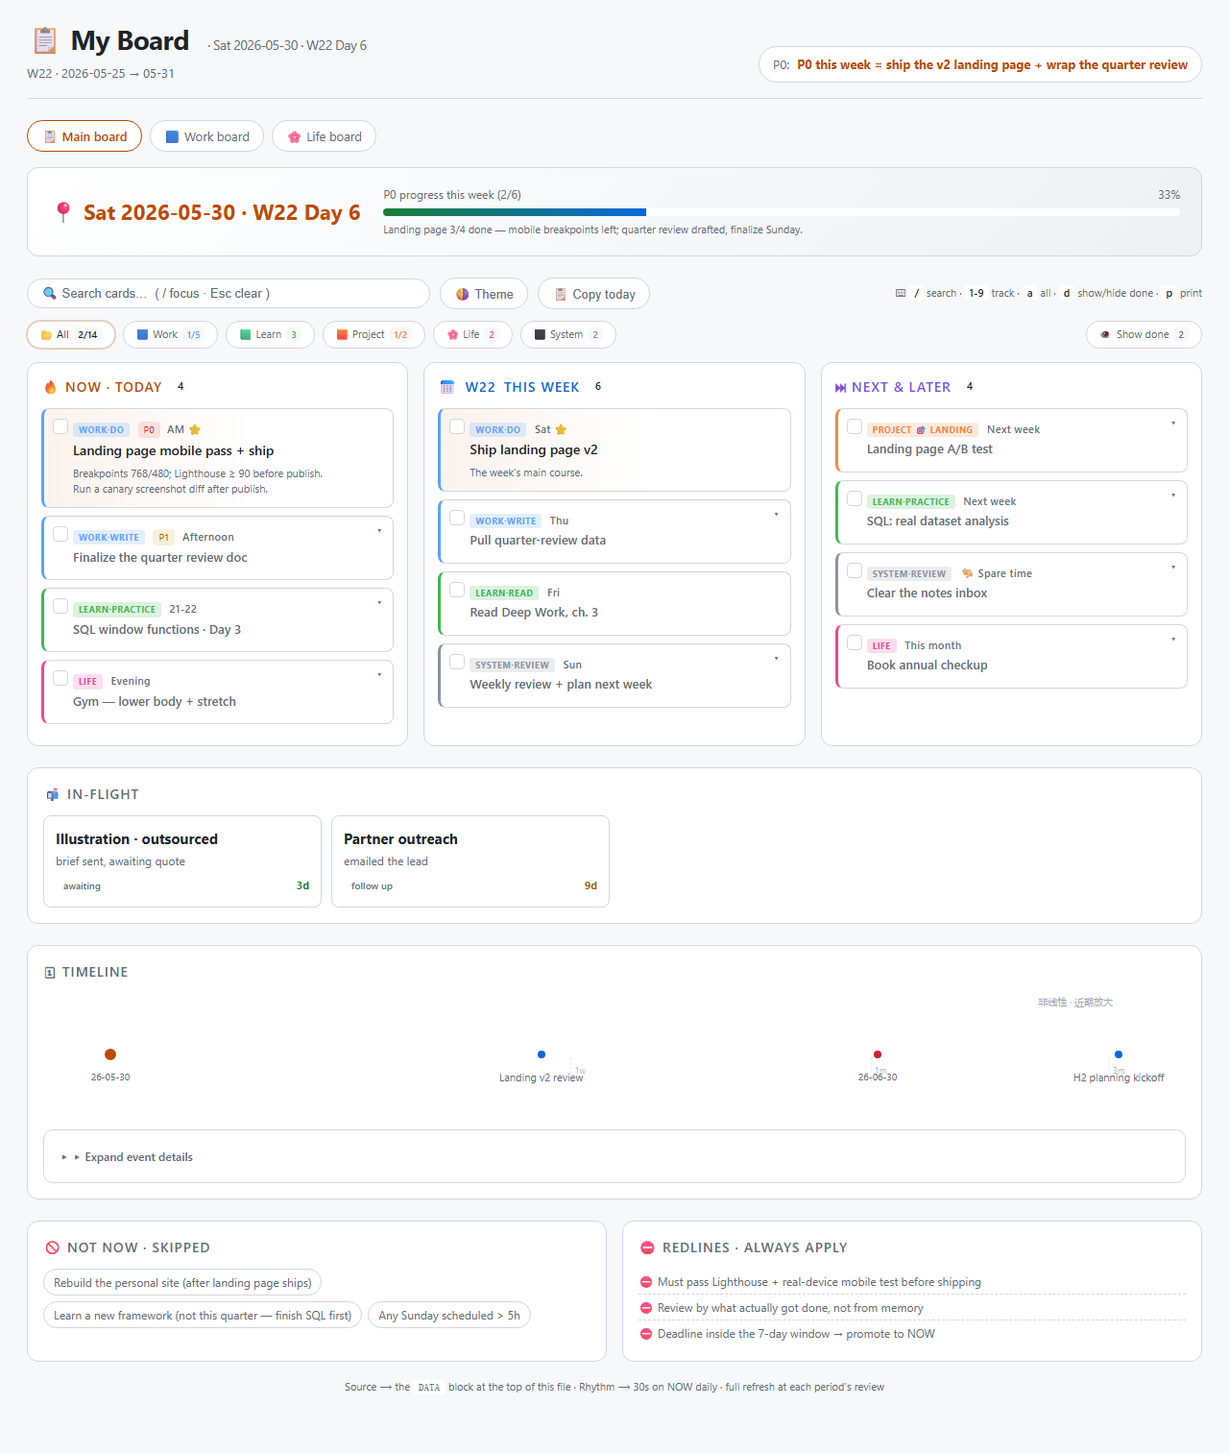
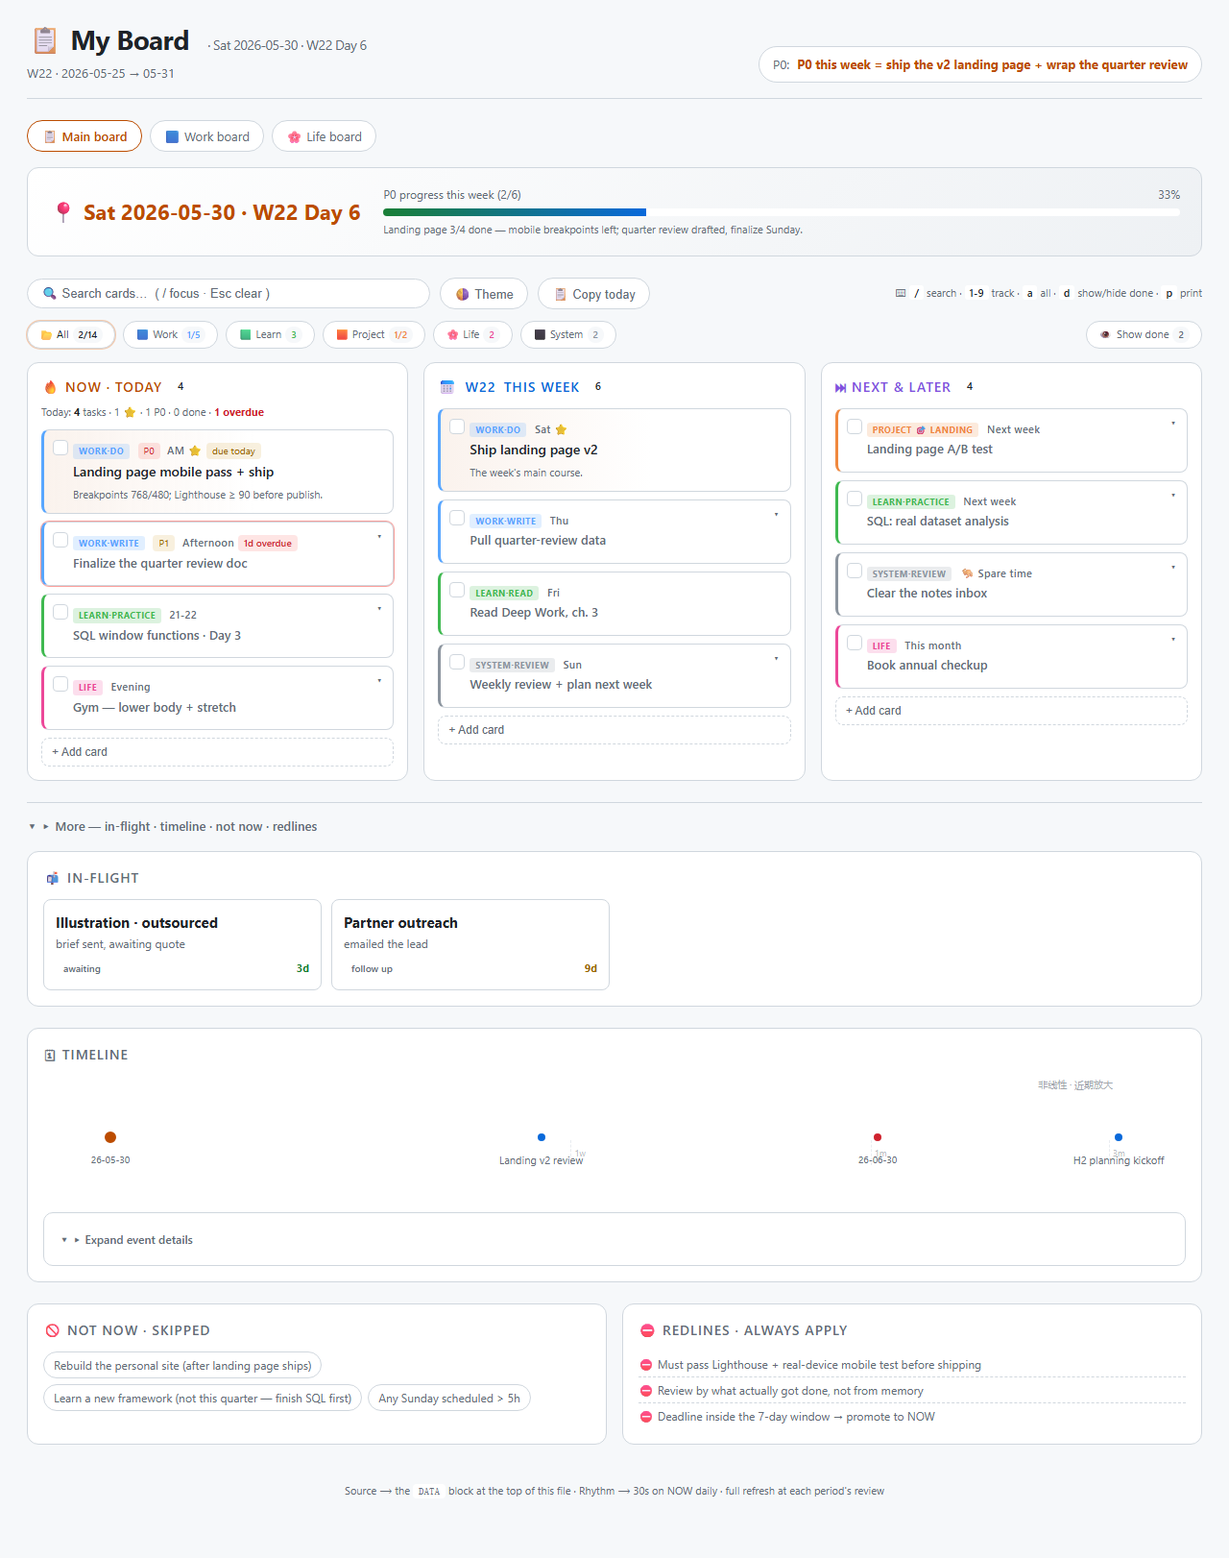
feat: in-browser add card, due dates + overdue + today summary, first-screen focus fold
Practicality + readability pass:
- + Add card inline per column → overlay.added (deletable ✕), baked in on Copy latest DATA
- card.due (YYYY-MM-DD): overdue red outline + chip, soon amber chip; NOW today-summary line
  (N tasks · X ⭐ · Y P0 · Z done · W overdue)
- lower sections (in-flight/timeline/not-now/redlines) collapsed in a fold by default → 30s glance
  lands on NOW + this week
- keyboard shortcuts no longer hijack keys typed in any input/select
- 13 Playwright specs (added: summary/overdue, add-card, no-hijack, fold-collapsed); screenshots refreshed
- docs: README features, data-schema (due + overlay.added), SKILL.md

diff --git a/assets/kanban-template.html b/assets/kanban-template.html
@@ -167,6 +167,33 @@
   .subpage-nav a:hover { background: var(--bg-card); color: var(--text); border-color: var(--accent); text-decoration: none; }
   .subpage-nav a.current { color: var(--accent); border-color: var(--accent); font-weight: 600; }
 
+  /* NOW today summary line */
+  .col-summary { font-size: 11px; color: var(--muted); margin: -4px 0 10px; }
+  .col-summary b { color: var(--text); }
+  .col-summary .ov { color: var(--red); font-weight: 700; }
+
+  /* Card due chip + overdue/soon */
+  .card .due { display: inline-block; font-size: 10px; padding: 1px 6px; border-radius: 4px; background: var(--bg-elev); color: var(--muted); margin-left: 4px; }
+  .card.overdue { outline: 1px solid rgba(248,81,73,0.55); }
+  .card.overdue .due { background: rgba(248,81,73,0.15); color: var(--red); font-weight: 600; }
+  .card.soon .due { background: rgba(210,153,34,0.15); color: var(--yellow); }
+
+  /* + Add card (writes to the localStorage overlay) */
+  .add-row { margin-top: 4px; }
+  .add-toggle { width: 100%; text-align: left; background: transparent; border: 1px dashed var(--border); color: var(--muted); border-radius: 8px; padding: 7px 10px; font-size: 12px; cursor: pointer; transition: all 0.15s; }
+  .add-toggle:hover { border-color: var(--accent); color: var(--text); }
+  .add-form { display: none; gap: 6px; margin-top: 4px; }
+  .add-form.open { display: flex; flex-wrap: wrap; }
+  .add-form input { flex: 1; min-width: 110px; background: var(--bg-card); border: 1px solid var(--border); color: var(--text); border-radius: 6px; padding: 6px 9px; font-size: 13px; outline: none; }
+  .add-form input:focus { border-color: var(--accent); }
+  .add-form select { background: var(--bg-card); border: 1px solid var(--border); color: var(--text); border-radius: 6px; padding: 6px; font-size: 12px; }
+  .card.added .del { position: absolute; top: 8px; right: 10px; color: var(--muted); font-size: 13px; cursor: pointer; opacity: 0.35; line-height: 1; z-index: 3; }
+  .card.added:hover .del { opacity: 1; }
+
+  /* First-screen focus: lower sections collapsed by default */
+  details.more-fold { background: transparent; border: 0; border-top: 1px solid var(--border); border-radius: 0; padding: 10px 0 0; margin-bottom: 22px; }
+  details.more-fold > summary { font-size: 13px; }
+
   /* 浅色主题: hero 渐变 + star 卡背景需单独覆盖 (它们是硬编码深色) */
   html.light .hero { background: linear-gradient(135deg, #ffffff 0%, #eef1f4 100%); }
   html.light .card.star { background: linear-gradient(90deg, rgba(188,76,0,0.07) 0%, var(--bg-card) 60%); }
@@ -176,7 +203,8 @@
   @media print {
     :root { --bg:#fff; --bg-elev:#fff; --bg-card:#fff; --text:#111; --muted:#555; --border:#ccc; }
     body { padding: 0; max-width: none; }
-    .toolbar, .legend, footer, details summary, .col::-webkit-scrollbar, .sync-banner, .card .chk { display: none !important; }
+    .toolbar, .legend, footer, details summary, .col::-webkit-scrollbar, .sync-banner, .card .chk, .add-row { display: none !important; }
+    details.more-fold > section, details.more-fold > .rails { display: block !important; }   /* expand the fold for print */
     .card { padding-left: 12px; }
     .hero { background: #f4f4f4 !important; }
     .kanban { grid-template-columns: 1fr 1fr 1fr; }
@@ -233,8 +261,8 @@ const DATA = {
   },
   // 🔥 NOW · Today (one task per card, time = time slot)
   now: [
-    { time: "AM ⭐", title: "The single most important thing today", meta: "Optional detail — click the card to expand.", tag: "P0", star: true, track: "work", action: "do" },
-    { time: "21-22", title: "Secondary task example", meta: "track sets the left border color + badge.", track: "learn", action: "learn" },
+    { time: "AM ⭐", title: "The single most important thing today", meta: "Optional detail — click the card to expand.", tag: "P0", star: true, track: "work", action: "do", due: "2026-01-01" },
+    { time: "21-22", title: "Secondary task example", meta: "track sets the left border color + badge.", track: "learn", action: "learn", due: "2025-12-31" },
   ],
   // 📅 This week (one task per card, day = planned day; done:true strikes through + collapses)
   week: [
@@ -308,42 +336,50 @@ const DATA = {
 <div class="kanban">
   <div class="col now">
     <h2>🔥 NOW · Today <span class="count" id="now-count"></span></h2>
+    <div class="col-summary" id="now-summary"></div>
     <div id="now-list"></div>
+    <div class="add-row" data-col="now"></div>
   </div>
   <div class="col week">
     <h2>📅 <span id="week-col-label"></span> This week <span class="count" id="week-count"></span></h2>
     <div id="week-list"></div>
+    <div class="add-row" data-col="week"></div>
   </div>
   <div class="col later">
     <h2>⏭ NEXT &amp; LATER <span class="count" id="next-count"></span></h2>
     <div id="next-list"></div>
+    <div class="add-row" data-col="next"></div>
   </div>
 </div>
 
-<section class="tracking" id="tracking-section" style="display:none;">
-  <h2 id="tracking-title" style="font-size:14px;font-weight:600;text-transform:uppercase;letter-spacing:1px;color:var(--muted);margin-bottom:12px;"></h2>
-  <div class="track-grid" id="tracking-list"></div>
-</section>
+<details class="more-fold" id="more-fold">
+  <summary>▸ More — in-flight · timeline · not now · redlines</summary>
 
-<section class="timeline">
-  <h2 style="font-size:14px;font-weight:600;text-transform:uppercase;letter-spacing:1px;color:var(--muted);margin-bottom:12px;">🗓 Timeline</h2>
-  <div class="tl-track"><div class="tl-inner" id="timeline"></div></div>
-  <details style="margin-top: 12px;">
-    <summary style="cursor: pointer; color: var(--muted); font-size: 12px; padding: 6px 0; user-select: none;">▸ Expand event details</summary>
-    <div class="tl-detail" id="timeline-detail"></div>
-  </details>
-</section>
+  <section class="tracking" id="tracking-section" style="display:none;">
+    <h2 id="tracking-title" style="font-size:14px;font-weight:600;text-transform:uppercase;letter-spacing:1px;color:var(--muted);margin-bottom:12px;"></h2>
+    <div class="track-grid" id="tracking-list"></div>
+  </section>
 
-<div class="rails">
-  <div class="rail">
-    <h2>🚫 NOT NOW · skipped</h2>
-    <div class="chips" id="not-now"></div>
+  <section class="timeline">
+    <h2 style="font-size:14px;font-weight:600;text-transform:uppercase;letter-spacing:1px;color:var(--muted);margin-bottom:12px;">🗓 Timeline</h2>
+    <div class="tl-track"><div class="tl-inner" id="timeline"></div></div>
+    <details style="margin-top: 12px;">
+      <summary style="cursor: pointer; color: var(--muted); font-size: 12px; padding: 6px 0; user-select: none;">▸ Expand event details</summary>
+      <div class="tl-detail" id="timeline-detail"></div>
+    </details>
+  </section>
+
+  <div class="rails">
+    <div class="rail">
+      <h2>🚫 NOT NOW · skipped</h2>
+      <div class="chips" id="not-now"></div>
+    </div>
+    <div class="rail">
+      <h2>⛔ Redlines · always apply</h2>
+      <ul class="redlines" id="redlines"></ul>
+    </div>
   </div>
-  <div class="rail">
-    <h2>⛔ Redlines · always apply</h2>
-    <ul class="redlines" id="redlines"></ul>
-  </div>
-</div>
+</details>
 
 <footer>
   Source ⟶ the <code>DATA</code> block at the top of this file · Rhythm ⟶ 30s on NOW daily · full refresh at each period's review
@@ -415,16 +451,22 @@ const DATA = {
   const STORE = 'lk:' + (M.title || 'board') + ':overlay';
   let ov = {};
   try { ov = JSON.parse(localStorage.getItem(STORE)) || {}; } catch { ov = {}; }
-  ov.done = ov.done || {}; ov.col = ov.col || {}; ov.order = ov.order || {};
+  ov.done = ov.done || {}; ov.col = ov.col || {}; ov.order = ov.order || {}; ov.added = ov.added || [];
   const saveOv = () => { try { localStorage.setItem(STORE, JSON.stringify(ov)); } catch {} };
 
-  // 每张卡稳定 key: 优先 c.id, 否则 track|title (同名重复加 #n)
-  const cards = []; const kc = {};
-  COLS.forEach(col => (DATA[col] || []).forEach(c => {
-    const baseK = c.id || `${c.track || '_'}|${c.title}`;
-    kc[baseK] = (kc[baseK] || 0) + 1;
-    cards.push({ d: c, key: kc[baseK] > 1 ? `${baseK}#${kc[baseK]}` : baseK, baseCol: col, label: (c.time || c.day || c.when || '') });
-  }));
+  // Stable key per card: c.id, else track|title (#n on dup). Added cards keep their own id-key.
+  let cards = [];
+  const buildCards = () => {
+    cards = []; const kc = {};
+    COLS.forEach(col => (DATA[col] || []).forEach(c => {
+      const baseK = c.id || `${c.track || '_'}|${c.title}`;
+      kc[baseK] = (kc[baseK] || 0) + 1;
+      cards.push({ d: c, key: kc[baseK] > 1 ? `${baseK}#${kc[baseK]}` : baseK, baseCol: col, label: (c.time || c.day || c.when || ''), added: false });
+    }));
+    ov.added.forEach(a => cards.push({ d: a, key: a.id, baseCol: a.col, label: a.label || '+ added', added: true }));
+  };
+  buildCards();
+
   const effCol  = (c) => ov.col[c.key] || c.baseCol;
   const effDone = (c) => (c.key in ov.done) ? ov.done[c.key] : !!c.d.done;
 
@@ -442,13 +484,26 @@ const DATA = {
     return b;
   };
 
+  // due date → chip + class (overdue red / soon amber)
+  const dueInfo = (due) => {
+    if (!due) return null;
+    const days = Math.floor((toLocalDate(due) - todayDate) / dayMs);
+    if (days < 0)   return { cls: 'overdue', label: `${-days}d overdue` };
+    if (days === 0) return { cls: 'soon', label: 'due today' };
+    if (days <= 7)  return { cls: 'soon', label: `in ${days}d` };
+    return { cls: '', label: `due ${due.slice(5)}` };
+  };
+
   const renderCard = (c) => {
     const d = c.d, done = effDone(c);
-    return `<div class="card ${d.star?'star':''} ${done?'done':''} ${d.meta?'has-meta':''} ${trackClass(d.track)}" data-key="${esc(c.key)}" draggable="true">
+    const du = done ? null : dueInfo(d.due);
+    const dueCls = du ? (du.cls === 'overdue' ? 'overdue' : du.cls === 'soon' ? 'soon' : '') : '';
+    return `<div class="card ${d.star?'star':''} ${done?'done':''} ${d.meta?'has-meta':''} ${c.added?'added':''} ${dueCls} ${trackClass(d.track)}" data-key="${esc(c.key)}" draggable="true">
       <span class="chk" title="Toggle done">${done?'✓':''}</span>
+      ${c.added?`<span class="del" title="Delete">✕</span>`:''}
       ${trackBadge(d)}
       ${d.tag?`<span class="tag ${esc(String(d.tag).toLowerCase())}">${esc(d.tag)}</span>`:''}
-      <span class="time">${esc(c.label)}</span>
+      <span class="time">${esc(c.label)}</span>${du?`<span class="due">${esc(du.label)}</span>`:''}
       <div class="title">${esc(d.title)}</div>
       ${d.meta?`<div class="meta">${esc(d.meta)}</div>`:''}
     </div>`;
@@ -501,10 +556,22 @@ const DATA = {
     });
   };
 
+  // NOW today-summary line
+  const refreshSummary = (b) => {
+    const now = b.now;
+    const star = now.filter(c => c.d.star).length;
+    const p0 = now.filter(c => String(c.d.tag || '').toUpperCase() === 'P0').length;
+    const done = now.filter(effDone).length;
+    const overdue = now.filter(c => { if (effDone(c)) return false; const di = dueInfo(c.d.due); return di && di.cls === 'overdue'; }).length;
+    $("now-summary").innerHTML = `Today: <b>${now.length}</b> tasks · ${star} ⭐ · ${p0} P0 · ${done} done`
+      + (overdue ? ` · <span class="ov">${overdue} overdue</span>` : '');
+  };
+
   // 同步横幅
   const changedCount = () => {
-    let n = 0;
+    let n = ov.added.length;
     cards.forEach(c => {
+      if (c.added) return;
       const dc = (c.key in ov.done) && ov.done[c.key] !== !!c.d.done;
       const cc = ov.col[c.key] && ov.col[c.key] !== c.baseCol;
       if (dc || cc) n++;
@@ -520,9 +587,9 @@ const DATA = {
     $("sync-msg").innerHTML = `📝 <b>${n}</b> local change(s)${hasOrder ? ' (incl. reorder)' : ''} not yet written to the file — click 📤 Copy latest DATA and paste it over the DATA block to commit.`;
   };
 
-  const repaint = () => { const b = renderColumns(); const s = computeStats(b); refreshProgress(s); refreshLegendCounts(s); refreshBanner(); reapplyView(); };
+  const repaint = () => { const b = renderColumns(); const s = computeStats(b); refreshProgress(s); refreshLegendCounts(s); refreshSummary(b); refreshBanner(); reapplyView(); };
 
-  // —— 交互: 打勾 (委托) ——
+  // —— Interactions: check / delete-added / add-form toggle (delegated) ——
   document.addEventListener('click', e => {
     const chk = e.target.closest('.chk');
     if (chk) {
@@ -531,7 +598,24 @@ const DATA = {
       if (c) { ov.done[c.key] = !effDone(c); saveOv(); repaint(); }
       return;
     }
-    const card = e.target.closest('.card.has-meta');   // 点卡片其它处展开 meta
+    const del = e.target.closest('.card.added .del');
+    if (del) {
+      e.stopPropagation();
+      const key = del.closest('.card').dataset.key;
+      ov.added = ov.added.filter(a => a.id !== key);
+      delete ov.done[key]; delete ov.col[key];
+      COLS.forEach(col => { if (ov.order[col]) ov.order[col] = ov.order[col].filter(k => k !== key); });
+      saveOv(); buildCards(); repaint();
+      return;
+    }
+    const tg = e.target.closest('.add-toggle');
+    if (tg) {
+      const form = tg.nextElementSibling;
+      const open = form.classList.toggle('open');
+      if (open) form.querySelector('input').focus();
+      return;
+    }
+    const card = e.target.closest('.card.has-meta');   // expand meta on click elsewhere
     if (card && !card.classList.contains('star')) card.classList.toggle('expanded');
   });
 
@@ -568,7 +652,7 @@ const DATA = {
   // —— 同步横幅按钮 ——
   $("sync-reset").addEventListener('click', () => {
     if (!confirm('Discard all local changes and revert to the file DATA?')) return;
-    ov = { done: {}, col: {}, order: {} }; saveOv(); repaint();
+    ov = { done: {}, col: {}, order: {}, added: [] }; saveOv(); buildCards(); repaint();
   });
   $("sync-copy").addEventListener('click', async () => {
     const b = bucket();
@@ -582,7 +666,8 @@ const DATA = {
       if (d.track) o.track = d.track;
       if (d.action) o.action = d.action;
       if (d.subject) o.subject = d.subject;
-      if (d.id) o.id = d.id;
+      if (d.due) o.due = d.due;
+      if (d.id && !c.added) o.id = d.id;
       return o;
     };
     const out = Object.assign({}, DATA);
@@ -609,6 +694,29 @@ const DATA = {
       return `<a class="${cur}" href="${esc(n.href)}">${esc(n.label)}</a>`;
     }).join('');
   }
+
+  // —— + Add card (per column; writes to overlay.added, syncs back like any change) ——
+  (function buildAddControls() {
+    const opts = DATA.tracks.map(t => `<option value="${esc(t.id)}">${esc(t.emoji || '')} ${esc(t.label)}</option>`).join('');
+    document.querySelectorAll('.add-row').forEach(row => {
+      row.innerHTML = `<button class="add-toggle" type="button">+ Add card</button>
+        <div class="add-form"><input type="text" maxlength="120" placeholder="New ${esc(row.dataset.col)} task… (Enter)"><select title="track">${opts}</select></div>`;
+    });
+  })();
+  document.addEventListener('keydown', e => {
+    const inp = e.target.closest && e.target.closest('.add-form input');
+    if (!inp) return;
+    if (e.key === 'Escape') { inp.value = ''; inp.closest('.add-form').classList.remove('open'); return; }
+    if (e.key !== 'Enter') return;
+    const title = inp.value.trim(); if (!title) return;
+    const form = inp.closest('.add-form'), col = form.closest('.add-row').dataset.col;
+    const track = form.querySelector('select').value;
+    const id = 'add-' + Date.now() + '-' + Math.floor(Math.random() * 1e4);
+    const label = col === 'now' ? 'Today' : col === 'week' ? 'this wk' : 'later';
+    ov.added.push({ id, col, title, track, action: 'do', label });
+    saveOv(); buildCards(); repaint();
+    inp.value = ''; inp.focus();   // keep open for rapid entry
+  });
 
   // 6. 可选 tracking 表
   if (DATA.tracking && DATA.tracking.length) {
@@ -723,9 +831,10 @@ const DATA = {
   // 12. 键盘快捷键: / 搜索 · 1-9 切 track · a 全部 · d 显隐 done · p 打印 · Esc 清空
   const filterChips = () => [...document.querySelectorAll('.legend-chip[data-filter]')]; // [0]=全部, [1..]=tracks
   document.addEventListener('keydown', e => {
-    const typing = document.activeElement === searchEl;
-    if (e.key === 'Escape') { searchEl.value = ''; reapplyView(); searchEl.blur(); return; }
-    if (typing) return;                       // 搜索框内不抢按键 (Esc 除外)
+    const ae = document.activeElement;
+    const inField = ae && (ae.tagName === 'INPUT' || ae.tagName === 'SELECT' || ae.tagName === 'TEXTAREA' || ae.isContentEditable);
+    if (e.key === 'Escape') { if (ae === searchEl) { searchEl.value = ''; reapplyView(); searchEl.blur(); } return; }
+    if (inField) return;                      // never hijack keys while typing in any field
     if (e.metaKey || e.ctrlKey || e.altKey) return;
     if (e.key === '/') { e.preventDefault(); searchEl.focus(); return; }
     if (e.key === 'a' || e.key === '0') { filterChips()[0].click(); return; }

diff --git a/references/data-schema.md b/references/data-schema.md
@@ -87,6 +87,7 @@ One task = one card. The only difference between the three columns is the **time
 | `done` | boolean | — | Strike-through + auto-hidden under 👁 toggle. Counts toward progress. |
 | `action` | string | — | Verb for the badge when not a project, e.g. `do`/`learn`/`write`/`review`. Badge = `label·action`. |
 | `subject` | string | — | For project-type cards: emoji+name, e.g. `"🎯 Gacha"`. Badge = `label subject` (overrides action). |
+| `due` | `YYYY-MM-DD` | — | Optional due date. While not done: past → red `overdue` outline + chip; today/≤7d → amber "soon" chip; counted in the NOW today-summary line. |
 | `id` | string | — | Optional **stable key** for the browser overlay (check/drag persistence). If omitted, the key is derived as `track\|title` (with `#n` on duplicates). Add an explicit `id` if you plan to rename a card's title but keep its in-browser state. |
 
 Badge rendering: `subject` wins → else `action` → else just the track `label`.
@@ -127,10 +128,12 @@ Set `trackingTitle` to rename the section header (default `"📬 In-flight"`).
 
 ## Browser overlay (localStorage) vs the file
 
-The board supports **in-browser editing** (tick a card's ☑, drag cards between/within columns)
-without touching the file. These edits are an **overlay** stored in `localStorage` under
-`lk:<title>:overlay` — they never mutate the `DATA` block. On load the file is the base; the overlay
-is layered on top (done state, column membership, ordering).
+The board supports **in-browser editing** (tick a card's ☑, drag cards between/within columns, or
+**+ Add card** inline per column) without touching the file. These edits are an **overlay** stored in
+`localStorage` under `lk:<title>:overlay` — they never mutate the `DATA` block. On load the file is the
+base; the overlay is layered on top: `done` (per-card), `col` (column membership), `order` (per-column
+ordering), and `added` (new cards created in-browser; deletable via the ✕). Added cards get baked into
+the right column array on **📤 Copy latest DATA**.
 
 - The `DATA` block remains the **single source of truth for structure**. The overlay is ephemeral
   daily state.

diff --git a/README.md b/README.md
@@ -64,7 +64,9 @@ script below it is generic. Features:
 - **Keyboard shortcuts** — `/` search · `1-9` switch track · `a` all · `d` show/hide done · `p` print · `Esc` clear
 - **Copy today** button — copy the NOW column as plain text for a daily note / standup
 - **Print stylesheet** — `Ctrl/⌘+P` exports a clean light-theme PDF (expands all cards, ignores filters)
-- **In-browser check + drag** — tick a card's ☑ or drag it between/within columns, *without editing the file*
+- **In-browser check + drag + add** — tick a card's ☑, drag it between/within columns, or **+ Add card** inline per column — all *without editing the file*
+- **Due dates** — optional `due` per card → overdue cards get a red outline, a due chip, and a NOW "today" summary line (`4 tasks · 1 ⭐ · 1 P0 · 0 done · 1 overdue`)
+- **First-screen focus** — in-flight / timeline / not-now / redlines collapse into a fold by default, so the 30s glance lands on NOW + this week
 - **localStorage overlay + one-click sync** — browser edits persist locally as an overlay; a banner shows pending changes with **📤 Copy latest DATA** (paste back into the file = commit) and **↺ Reset local changes**. The file `DATA` block stays the single source of truth.
 - **🌗 Light / dark theme** toggle (persisted per browser)
 - **Multi-board nav** — `DATA.nav` renders a sub-page chip row to link several boards (work / life / …) that share `dashboard.css` + `dashboard-utils.js`

diff --git a/SKILL.md b/SKILL.md
@@ -167,7 +167,7 @@ All edits target the `DATA` block. Read the current board first, then make the s
 
 | Operation | What to change |
 |---|---|
-| **Add a card** | Append an object to `now[]` / `week[]` / `next[]`. Required: a time field (`time` for now, `day` for week, `when` for next) + `title` + `track`. Optional: `meta`, `tag` (`P0`/`P1`/`P2`), `star`, `action`, `subject`. |
+| **Add a card** | Append an object to `now[]` / `week[]` / `next[]`. Required: a time field (`time` for now, `day` for week, `when` for next) + `title` + `track`. Optional: `meta`, `tag` (`P0`/`P1`/`P2`), `star`, `action`, `subject`, `due` (`YYYY-MM-DD` → overdue highlight). The user can also add cards in-browser (+ Add card) — those live in the overlay until synced back. |
 | **Complete a card** | Set `done: true` on it (it strikes through + auto-hides under the 👁 toggle). For dated columns, optionally prefix the time field with ✅. |
 | **Move a card** | Cut the object from one column array, paste into the target. NOW↔WEEK↔NEXT are just three arrays. |
 | **Edit a card** | Change its fields in place. Keep immutability discipline at the *file* level — rewrite the whole object cleanly rather than half-editing. |
